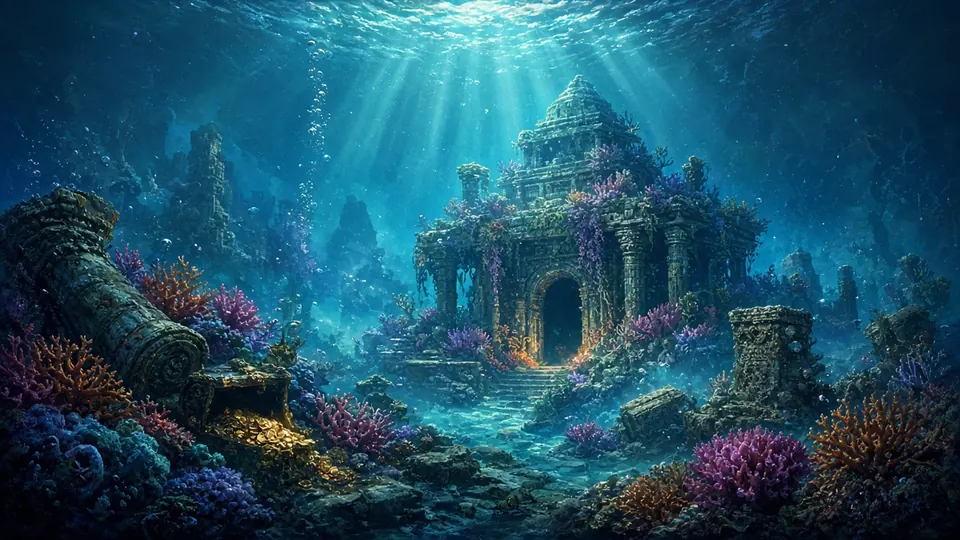
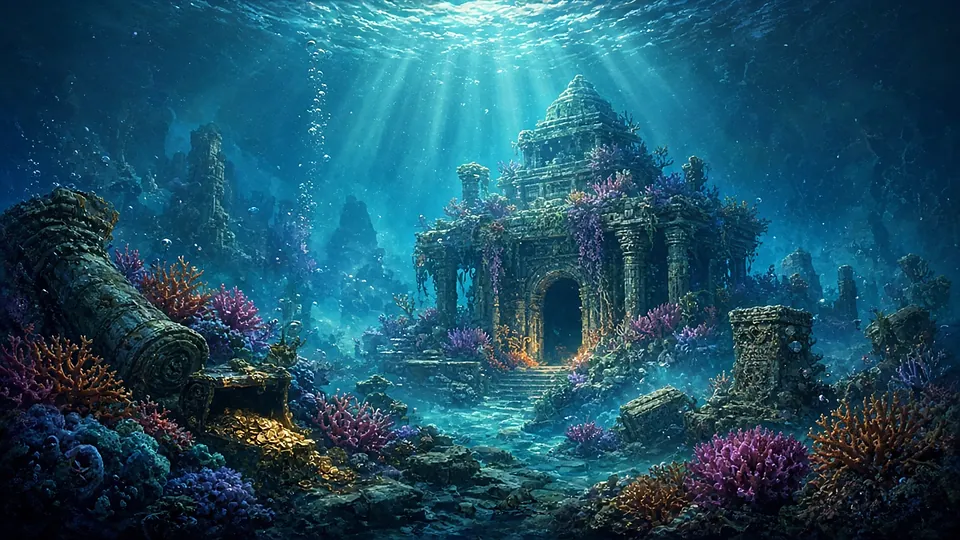
Reef Rumble: sharper background (1920w desktop / 960w phone, 2-step Lanczos + mild unsharp), asset cache v5 (engine/RTP unchanged)

diff --git a/game.js b/game.js
@@ -92,7 +92,7 @@ function resize() {
 
 function off(w, h) { const c = document.createElement('canvas'); c.width = Math.max(1, Math.ceil(w)); c.height = Math.max(1, Math.ceil(h)); return c; }
 /* ---------- generated art (WebP) with procedural fallback ---------- */
-const ART = {}, ART_V = '4';
+const ART = {}, ART_V = '5';
 const CORE_ART = ['bg', 'cannon', 'coin', 'gem_r', 'gem_b', 'gem_g', 'gem_p', 'minnow', 'guppy', 'darter', 'pebble', 'tang', 'lantern', 'jelly', 'turtle', 'ray', 'sword', 'shark', 'koi', 'whale', 'bomb', 'eel', 'chest'];
 const BOSS_ART = ['kraken', 'dragon'];
 function loadArt(name) {

diff --git a/index.html b/index.html
@@ -203,7 +203,7 @@ button{font:inherit;color:inherit;border:0;background:none;cursor:pointer;touch-
 
 <div id="rot"><div class="ph"></div><b>Turn your phone sideways</b><span>Reef Rumble plays in landscape.</span></div>
 
-<script src="engine.js?v=254036"></script>
-<script src="game.js?v=254036"></script>
+<script src="engine.js?v=3c6149eb"></script>
+<script src="game.js?v=3c6149eb"></script>
 </body>
 </html>
